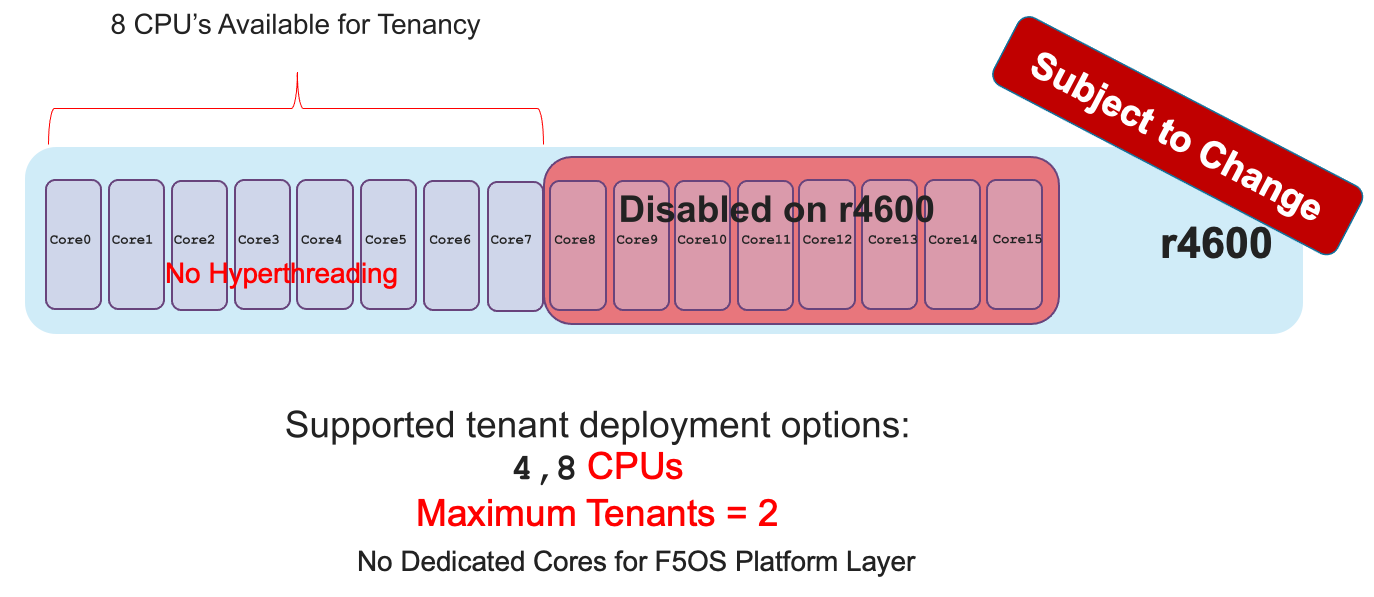
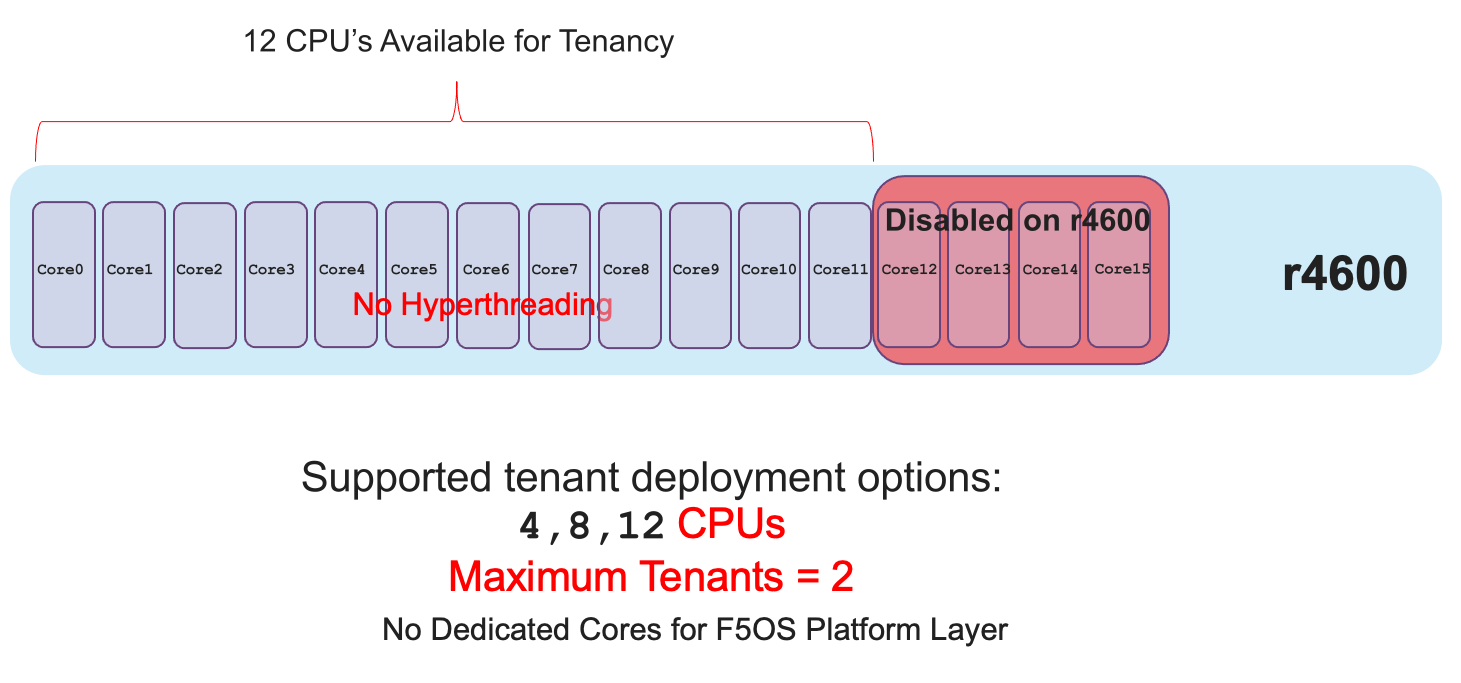
images

diff --git a/docs/rseries_multitenancy.rst b/docs/rseries_multitenancy.rst
@@ -151,11 +151,11 @@ r4000 Series Multitenancy
 
 **NOTE: This is subject to change**
 
-In the high-end (r10000) and mid-range (r5000) rSeries appliances each Intel CPU core runs hyperthreading and appears as two logical CPU's or vCPUs. For each physical CPU core there are two logical vCPUs. The r4000 series of appliances use a different class of Intel CPU that does not utilize hyperthreading. Instead of measuring how many vCPUs or logical cores these platforms support, they are measured using physical CPU core counts only. The r4000 series platforms do not include FPGA's for hardware offloading of workloads like DDoS mitigation, or FASTL4 offload. These workloads are handled by CPU with specialized offload instead. SSL and Compression are part of the Intel CPU complex and are offloaded within the CPU. 
+In the high-end (r10000) and mid-range (r5000) rSeries appliances each Intel CPU core runs hyperthreading and appears as two logical CPUs or vCPUs. For each physical CPU core there are two logical vCPUs. The r4000 series of appliances use a different class of Intel CPU that does not utilize hyperthreading. Instead of measuring how many vCPUs or logical cores these platforms support, they are measured using physical CPU core counts only. The r4000 series platforms do not include FPGA's for hardware offloading of workloads like DDoS mitigation, or FASTL4 offload. These workloads are handled by CPU with specialized offload instead. SSL and Compression are part of the Intel CPU complex and are offloaded within the CPU. 
 
-Each r4000 appliance has 16 CPU cores (not vCPUs), unlike the high-end (r10000) and mid-range (r5000) rSeries appliances there are no CPU's dedicated to the F5OS platform layer. Since there are no FPGA's that require dedicated CPU's to interface with, the F5OS platform layer processes can be spread across all the available CPU's. This allows for more CPU's to be used for tenancy.
+Each r4000 appliance has 16 CPU cores (not vCPUs), unlike the high-end (r10000) and mid-range (r5000) rSeries appliances there are no CPUs dedicated to the F5OS platform layer. Since there are no FPGA's that require dedicated CPUs to interface with, the F5OS platform layer processes can be spread across all the available CPUs. This allows for more CPU's to be used for tenancy.
 
-This leaves all 16 CPU cores left over for use by tenants on the r4800, and 8 CPU cores for the r4600. You can dedicate all CPU cores to one large tenant, or you can allocate smaller numbers of CPU cores per tenant so that you can deploy many tenants. Below are examples of the total number of CPU cores supported for each r4000 platform.
+This leaves all 16 CPU cores left over for use by tenants on the r4800, and 12 CPU cores for the r4600. You can dedicate all CPU cores to one large tenant, or you can allocate smaller numbers of CPU cores per tenant so that you can deploy many tenants. Below are examples of the total number of CPU cores supported for each r4000 platform.
 
 The r4800 has 16 CPU cores total, There are zero CPU cores reserved for F5OS, and 16 CPU cores left over for use by tenants:
 
@@ -164,7 +164,7 @@ The r4800 has 16 CPU cores total, There are zero CPU cores reserved for F5OS, an
   :align: center
   :scale: 70%
 
-The r4600 has 16 CPU cores total, 8 CPU cores are disabled via licensing, there are zero CPU cores reserved for F5OS, and 8 CPU cores left over for use by tenants:
+The r4600 has 16 CPU cores total, 4 CPU cores are disabled via licensing, there are zero CPU cores reserved for F5OS, and 12 CPU cores left over for use by tenants:
 
 .. image:: images/rseries_multitenancy/image10.png
   :align: center
